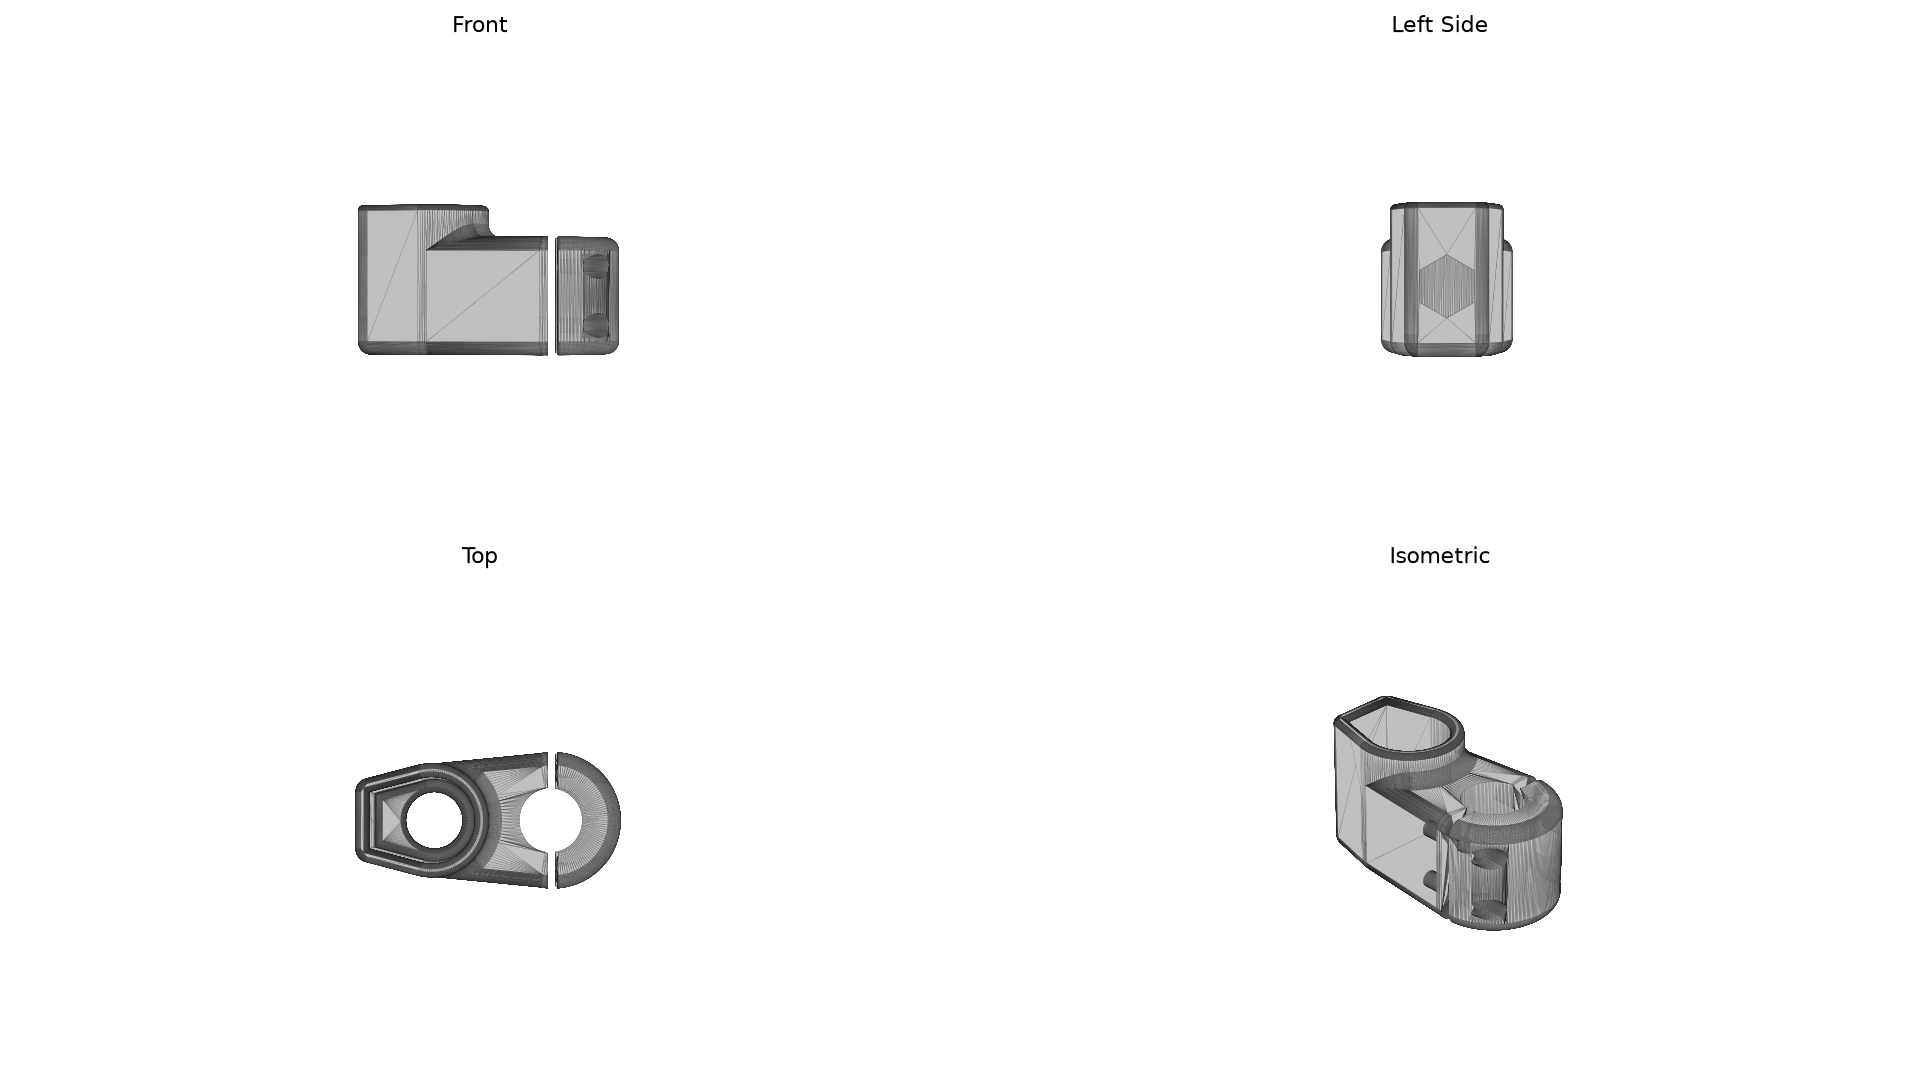
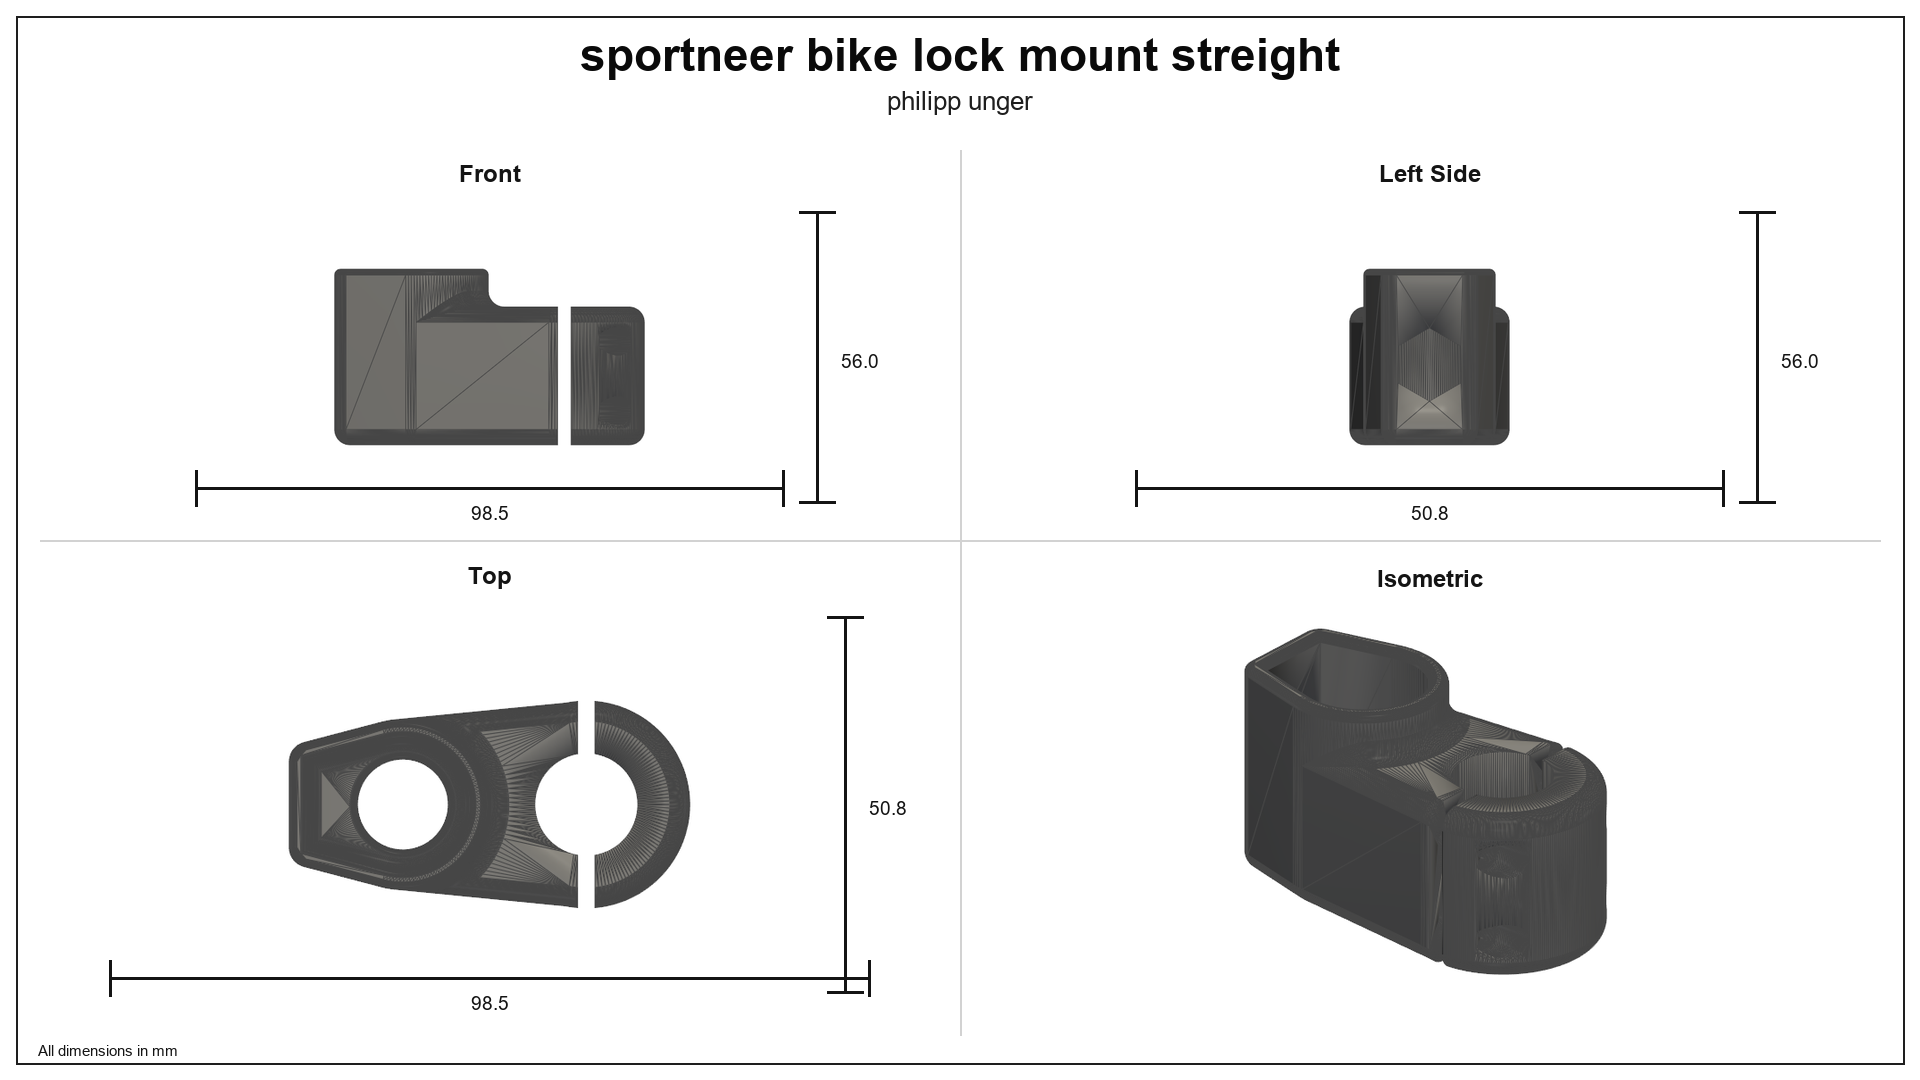
improvements

diff --git a/render-4-view.py b/render-4-view.py
@@ -1,61 +1,241 @@
-import trimesh
-import matplotlib.pyplot as plt
-from mpl_toolkits.mplot3d.art3d import Poly3DCollection
-import sys
+import argparse
+import numpy as np
+import pyvista as pv
+from PIL import Image, ImageDraw, ImageFont
 
-INPUT_STL = "model.stl"
-OUTPUT_PNG = "stl_4view.png"
 
-if len(sys.argv) >= 2:
-    INPUT_STL = sys.argv[1]
-if len(sys.argv) >= 3:
-    OUTPUT_PNG = sys.argv[2]
+COLORS = {
+    "black": (20, 20, 20),
+    "grey": (150, 150, 150),
+    "gray": (150, 150, 150),
+    "red": (210, 30, 30),
+    "green": (40, 140, 70),
+    "blue": (40, 90, 180),
+}
 
-mesh = trimesh.load(INPUT_STL)
 
-# center and normalize
-mesh.apply_translation(-mesh.centroid)
-mesh.apply_scale(1.0 / mesh.extents.max())
+def get_font(size, bold=False):
+    candidates = [
+        "arialbd.ttf" if bold else "arial.ttf",
+        "/usr/share/fonts/truetype/dejavu/DejaVuSans-Bold.ttf" if bold else "/usr/share/fonts/truetype/dejavu/DejaVuSans.ttf",
+        "/System/Library/Fonts/Supplemental/Arial Bold.ttf" if bold else "/System/Library/Fonts/Supplemental/Arial.ttf",
+    ]
+    for path in candidates:
+        try:
+            return ImageFont.truetype(path, size)
+        except Exception:
+            pass
+    return ImageFont.load_default()
 
-faces = mesh.vertices[mesh.faces]
 
-views = [
-    ("Front", 0, -90),       # top left
-    ("Left Side", 0, 180),   # top right
-    ("Top", 90, -90),        # bottom left
-    ("Isometric", 30, -45),  # bottom right
-]
+def render_view(mesh, camera_position, object_color, size=(850, 420)):
+    plotter = pv.Plotter(off_screen=True, window_size=size)
+    plotter.set_background("white")
 
-fig = plt.figure(figsize=(19.2, 10.8), dpi=100)
-fig.patch.set_facecolor("white")
-
-for i, (title, elev, azim) in enumerate(views, start=1):
-    ax = fig.add_subplot(2, 2, i, projection="3d")
-
-    poly = Poly3DCollection(
-        faces,
-        linewidths=0.08,
-        edgecolors=(0.15, 0.15, 0.15),
-        alpha=1.0
+    plotter.add_mesh(
+        mesh,
+        color=np.array(object_color) / 255.0,
+        show_edges=True,
+        edge_color=(70, 70, 70),
+        line_width=0.2,
+        smooth_shading=True,
+        specular=0.15,
+        roughness=0.65,
     )
-    poly.set_facecolor((0.75, 0.75, 0.75))
-    ax.add_collection3d(poly)
 
-    # fixed normalized bounds, so model fits every view
-    padding = 0.08
-    limit = 0.5 + padding
+    plotter.camera_position = camera_position
+    plotter.camera.parallel_projection = True
+    plotter.reset_camera()
+    plotter.camera.zoom(1.35)
 
-    ax.set_xlim(-limit, limit)
-    ax.set_ylim(-limit, limit)
-    ax.set_zlim(-limit, limit)
+    img = plotter.screenshot(return_img=True)
+    plotter.close()
+    return Image.fromarray(img)
 
-    ax.view_init(elev=elev, azim=azim)
-    ax.set_box_aspect([1, 1, 1])
-    ax.set_axis_off()
-    ax.set_title(title, fontsize=16, pad=8)
 
-plt.subplots_adjust(left=0, right=1, top=0.96, bottom=0, wspace=0, hspace=0.05)
-plt.savefig(OUTPUT_PNG, dpi=100, facecolor="white")
-plt.close()
+def draw_centered(draw, box, text, font, fill):
+    bbox = draw.textbbox((0, 0), text, font=font)
+    x = box[0] + (box[2] - box[0] - (bbox[2] - bbox[0])) / 2
+    y = box[1] + (box[3] - box[1] - (bbox[3] - bbox[1])) / 2
+    draw.text((x, y), text, font=font, fill=fill)
 
-print(f"Saved: {OUTPUT_PNG}")
+
+def draw_dimension(draw, p1, p2, label, color, font, text_side="bottom"):
+    x1, y1 = p1
+    x2, y2 = p2
+    line_w = 3
+    tick = 18
+
+    draw.line((x1, y1, x2, y2), fill=color, width=line_w)
+
+    if abs(y2 - y1) < abs(x2 - x1):  # horizontal
+        draw.line((x1, y1 - tick, x1, y1 + tick), fill=color, width=line_w)
+        draw.line((x2, y2 - tick, x2, y2 + tick), fill=color, width=line_w)
+
+        bbox = draw.textbbox((0, 0), label, font=font)
+        tx = (x1 + x2 - (bbox[2] - bbox[0])) / 2
+        ty = y1 + 14
+        draw.text((tx, ty), label, font=font, fill=color)
+
+    else:  # vertical
+        draw.line((x1 - tick, y1, x1 + tick, y1), fill=color, width=line_w)
+        draw.line((x2 - tick, y2, x2 + tick, y2), fill=color, width=line_w)
+
+        bbox = draw.textbbox((0, 0), label, font=font)
+        tx = x1 + 24
+        ty = (y1 + y2 - (bbox[3] - bbox[1])) / 2
+        draw.text((tx, ty), label, font=font, fill=color)
+
+
+def paste_view(canvas, draw, view_img, box, title, font_title):
+    x1, y1, x2, y2 = box
+
+    title_box = (x1, y1 + 5, x2, y1 + 42)
+    draw_centered(draw, title_box, title, font_title, (20, 20, 20))
+
+    available = (x2 - x1 - 100, y2 - y1 - 95)
+    view_img.thumbnail(available, Image.Resampling.LANCZOS)
+
+    px = x1 + (x2 - x1 - view_img.width) // 2
+    py = y1 + 60 + (y2 - y1 - 80 - view_img.height) // 2
+    canvas.paste(view_img, (px, py))
+
+    return (px, py, px + view_img.width, py + view_img.height)
+
+
+def main():
+    parser = argparse.ArgumentParser()
+    parser.add_argument("input_stl")
+    parser.add_argument("output_png")
+    parser.add_argument("--title", default="")
+    parser.add_argument("--author", default="")
+    parser.add_argument("--dimensions", action="store_true")
+    parser.add_argument("--dimensions-color", default="black", choices=COLORS.keys())
+    parser.add_argument("--object-color", default="grey", choices=COLORS.keys())
+    args = parser.parse_args()
+
+    W, H = 1920, 1080
+    canvas = Image.new("RGB", (W, H), "white")
+    draw = ImageDraw.Draw(canvas)
+
+    title_font = get_font(46, bold=True)
+    author_font = get_font(26)
+    view_font = get_font(24, bold=True)
+    dim_font = get_font(19)
+    note_font = get_font(15)
+
+    dim_color = COLORS[args.dimensions_color]
+    obj_color = COLORS[args.object_color]
+
+    mesh = pv.read(args.input_stl)
+    bounds = mesh.bounds
+    width = bounds[1] - bounds[0]   # X
+    depth = bounds[3] - bounds[2]   # Y
+    height = bounds[5] - bounds[4]  # Z
+
+    mesh.translate(
+        (
+            -(bounds[0] + bounds[1]) / 2,
+            -(bounds[2] + bounds[3]) / 2,
+            -(bounds[4] + bounds[5]) / 2,
+        ),
+        inplace=True,
+    )
+
+    # page title
+    if args.title:
+        draw_centered(draw, (0, 20, W, 80), args.title, title_font, (10, 10, 10))
+    if args.author:
+        draw_centered(draw, (0, 78, W, 118), args.author, author_font, (30, 30, 30))
+
+    # subtle border and separators
+    draw.rectangle((16, 16, W - 16, H - 16), outline=(30, 30, 30), width=2)
+    draw.line((W // 2, 150, W // 2, H - 45), fill=(210, 210, 210), width=2)
+    draw.line((40, H // 2, W - 40, H // 2), fill=(210, 210, 210), width=2)
+
+    boxes = {
+        "front": (40, 145, W // 2 - 20, H // 2 - 10),
+        "left": (W // 2 + 20, 145, W - 40, H // 2 - 10),
+        "top": (40, H // 2 + 10, W // 2 - 20, H - 60),
+        "iso": (W // 2 + 20, H // 2 + 10, W - 40, H - 60),
+    }
+
+    views = {
+        # looking along -Y, showing X/Z
+        "front": render_view(
+            mesh,
+            [(0, -1, 0), (0, 0, 0), (0, 0, 1)],
+            obj_color
+        ),
+
+        # looking along -X, showing Y/Z
+        "left": render_view(
+            mesh,
+            [(-1, 0, 0), (0, 0, 0), (0, 0, 1)],
+            obj_color
+        ),
+
+        # looking along +Z, showing X/Y
+        "top": render_view(
+            mesh,
+            [(0, 0, 1), (0, 0, 0), (0, 1, 0)],
+            obj_color
+        ),
+
+        # z-up isometric
+        "iso": render_view(
+            mesh,
+            [(1.8, -2.1, 1.4), (0, 0, 0), (0, 0, 1)],
+            obj_color
+        ),
+    }
+
+    img_boxes = {}
+    img_boxes["front"] = paste_view(canvas, draw, views["front"], boxes["front"], "Front", view_font)
+    img_boxes["left"] = paste_view(canvas, draw, views["left"], boxes["left"], "Left Side", view_font)
+    img_boxes["top"] = paste_view(canvas, draw, views["top"], boxes["top"], "Top", view_font)
+    img_boxes["iso"] = paste_view(canvas, draw, views["iso"], boxes["iso"], "Isometric", view_font)
+
+    if args.dimensions:
+        dim_gap = 34
+
+        for key, w_label, h_label in [
+            ("front", width, height),
+            ("left", depth, height),
+            ("top", width, depth),
+        ]:
+            bx1, by1, bx2, by2 = boxes[key]
+            ix1, iy1, ix2, iy2 = img_boxes[key]
+
+            # keep dimensions inside the quadrant
+            bottom_y = min(iy2 + dim_gap, by2 - 42)
+            side_x = min(ix2 + dim_gap, bx2 - 95)
+
+            draw_dimension(
+                draw,
+                (ix1, bottom_y),
+                (ix2, bottom_y),
+                f"{w_label:.1f}",
+                dim_color,
+                dim_font,
+                "bottom",
+            )
+
+            draw_dimension(
+                draw,
+                (side_x, iy1),
+                (side_x, iy2),
+                f"{h_label:.1f}",
+                dim_color,
+                dim_font,
+                "right",
+            )
+
+        draw.text((38, H - 38), "All dimensions in mm", font=note_font, fill=(20, 20, 20))
+
+    canvas.save(args.output_png)
+    print(f"Saved: {args.output_png}")
+
+
+if __name__ == "__main__":
+    main()
